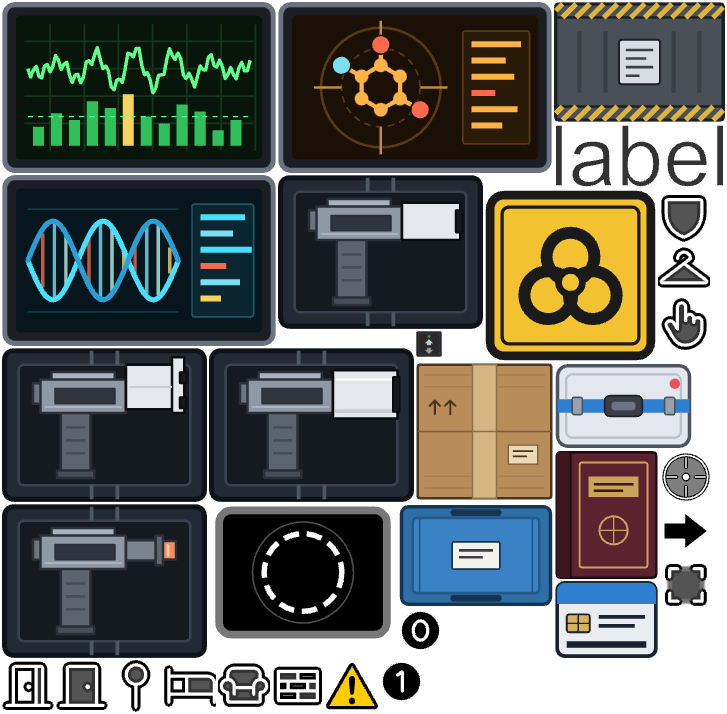
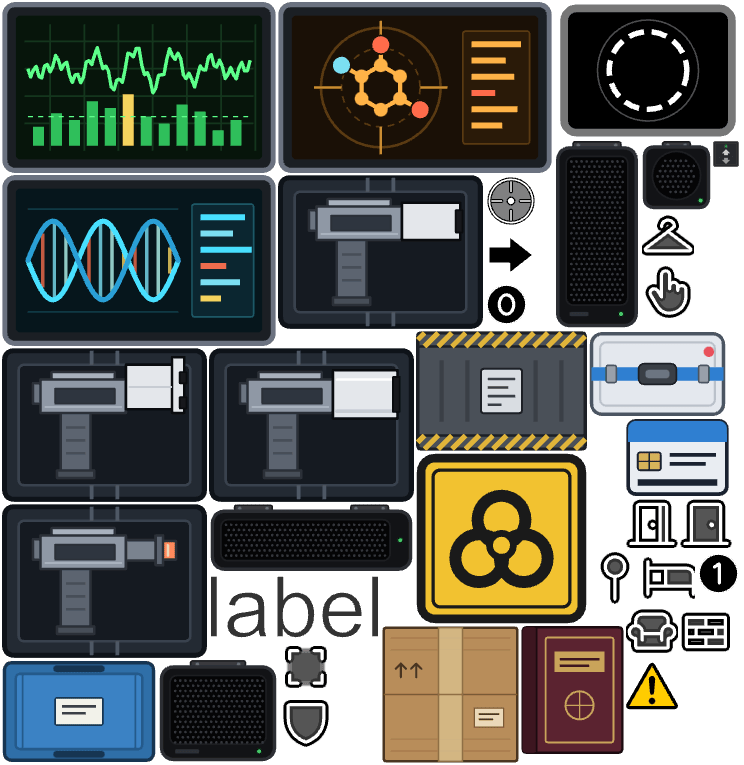
feat: add decor speakers

diff --git a/packages/ui/world/src/service/decor-box.ts b/packages/ui/world/src/service/decor-box.ts
@@ -1,6 +1,6 @@
 import { Mat } from "@npc-cli/util/geom";
 import * as THREE from "three/webgpu";
-import { decorCuboidHeight, sguToWorldScale } from "../const.env";
+import { decorCuboidHeight, decorTiltGap, sguToWorldScale } from "../const.env";
 import { embedXZMat4, getRotAxisMatrix, setRotMatrixAboutPoint } from "./geometry";
 
 /** A decor that stops a phaser shot: a quad, bar a switch or a keycard */
@@ -14,8 +14,13 @@ export function quadMatrix(decor: Geomorph.DecorQuad, entry: QuadImage, out: THR
   // e.g. key=switch and screen
   const shouldTilt = decor.meta.tilt === true;
   let tiltMat4: THREE.Matrix4 | null = null;
+  /** The image's downward direction in plan, which a tilt turns to face out of the wall */
+  const outward = { x: 0, y: 0 };
   if (shouldTilt) {
     const { a, b, c, d } = tmpMat;
+    const downLength = Math.hypot(c, d) || 1;
+    outward.x = c / downLength;
+    outward.y = d / downLength;
     // NORMALISED: `makeRotationAxis` takes a unit axis, and this one is a column of the
     // decor's own transform — so a scaled decor would hand it a longer vector, and what
     // came back would not be a rotation at all
@@ -29,7 +34,11 @@ export function quadMatrix(decor: Geomorph.DecorQuad, entry: QuadImage, out: THR
   const yScale = decor.meta.h ?? decorCuboidHeight;
   //biome-ignore format: preserve newlines
   const mat4 = embedXZMat4(tmpMat, { yScale, yHeight: (decor.meta.y ?? 0) + (shouldTilt ? 0 : -yScale), mat4: out });
-  if (tiltMat4) mat4.premultiply(tiltMat4);
+  if (tiltMat4) {
+    mat4.premultiply(tiltMat4);
+    mat4.elements[12] += outward.x * decorTiltGap;
+    mat4.elements[14] += outward.y * decorTiltGap;
+  }
   return mat4;
 }
 

diff --git a/packages/ui/world/src/components/Decor.tsx b/packages/ui/world/src/components/Decor.tsx
@@ -25,6 +25,7 @@ import {
   decorKeyFallback,
   decorPointDefaultRadius,
   decorPointKeyFallback,
+  decorSidesOfImg,
   doorConfig,
   inventoryConfig,
   MAX_DECOR_QUAD_INSTANCES,
@@ -694,10 +695,12 @@ export default function Decor() {
           batch.inst.setMatrixAt(id, embedXZMat4(tmpMat, { yScale: cuboidIconHeight, yHeight: (decor.meta.y ?? 0) + cuboidIconHeight, mat4: tmpMat4 }));
         }
         batch.inst.setColorAt(id, tmpColor.set(decor.meta.tint ?? "#ffffff"));
-        // black, bar an item's — or whatever `meta.sides` says
+        // meta.sides, else an item's, else its image's, else black
         const sides =
           decor.meta.sides ??
-          (decor.meta.item === undefined ? "#000" : (inventoryConfig.sideOf[decor.meta.item] ?? inventoryConfig.sides));
+          (decor.meta.item === undefined
+            ? (decorSidesOfImg[decor.meta.img] ?? "#000")
+            : (inventoryConfig.sideOf[decor.meta.item] ?? inventoryConfig.sides));
         tmpColor.set(sides).toArray(batch.sideRgb, id * 3);
         batch.isPoint[id] = decor.type === "point" ? 1 : 0;
         return true;

diff --git a/packages/ui/world/src/const.env.ts b/packages/ui/world/src/const.env.ts
@@ -314,6 +314,17 @@ export const decorGridSize = geomorphGridMeters * 2;
 /** Metres tall a decor quad's cuboid is, without a `meta.h` */
 export const decorCuboidHeight = 0.05;
 
+/** Metres a tilted decor quad stands off its wall, else its back z-fights the wall's face */
+export const decorTiltGap = 0.005;
+
+/** A decor quad's side colour by its image, unless `meta.sides` is given. Else black */
+export const decorSidesOfImg: Record<string, string> = {
+  "speaker-bar": "#232428",
+  "speaker-box": "#232428",
+  "speaker-column": "#232428",
+  "speaker-small": "#232428",
+};
+
 export const decorKeyFallback = "icon--warn";
 export const decorPointKeyFallback = "abstract-point";
 

diff --git a/docs/decorator.md b/docs/decorator.md
@@ -210,6 +210,44 @@ SVG's own screen transform (`toMap`), which letterboxing does not fool.
 The sidebar's crosshair centres the MAP on the decor (`centreOn`, zooming in to at least
 `locateZoom`) — never the World's camera, which is the player's.
 
+## A speaker on a wall
+
+A speaker is a tilted quad of one of four images in `media/src/decor`. Hang it as a switch hangs,
+beside one and level with it.
+
+| img | size | height |
+|---|---|---|
+| `speaker-small` | 0.2m by 0.2m | 1.23 |
+| `speaker-box` | 0.35m by 0.3m | 1.28 |
+| `speaker-bar` | 0.6m by 0.2m | 1.23 |
+| `speaker-column` | 0.25m by 0.55m | 1.4 |
+
+- **In the Decorator**: the quad tool, a speaker image, tilt on, and its height. Tilt alone gives
+  `tiltedQuadHeight` (1.35).
+- **Its top edge** lies on the wall's face, with the image reaching into the room. A tilt stands it
+  up about that edge, so it hangs flush.
+- **Its height** is its top. A switch's centre is at 1.125m, so a speaker's height is that plus half
+  its own.
+- **Its sides** are dark grey, not black, from `decorSidesOfImg` in `const.env`. A new speaker image
+  needs an entry there. A placed one's `meta.sides` overrides it.
+
+From the shell, `decor` places a quad unturned, so its top edge runs along x and it faces +z:
+
+```sh
+decor to:[3,12.08] key:speaker-1 type:quad img:speaker-box y3d:1.28 meta:'{ tilt: true }'
+```
+
+On any other wall, give `w.decor.create` the turned transform, e.g. on a wall facing -x at x=4.476,
+its top edge from z=12.94:
+
+```js
+w.decor.create({ type: "quad", key: "speaker-1", img: "speaker-box", y3d: 1.28,
+  transform: [0, 1, -1, 0, 4.476, 12.94], meta: { shown: true, tilt: true } });
+```
+
+In a symbol, it is a MapEdit image node of `speaker-box` named `decor quad speaker y=1.28 tilt`, as a
+screen's is `decor quad screen y=1.6 tilt` (e.g. `symbol/lab--018.json`).
+
 ## Graphs
 
 The sidebar's **graph** tab lists this map's graphs, and draws the chosen one, editable in DEV. See In the Decorator in `docs/graphs.md`.
